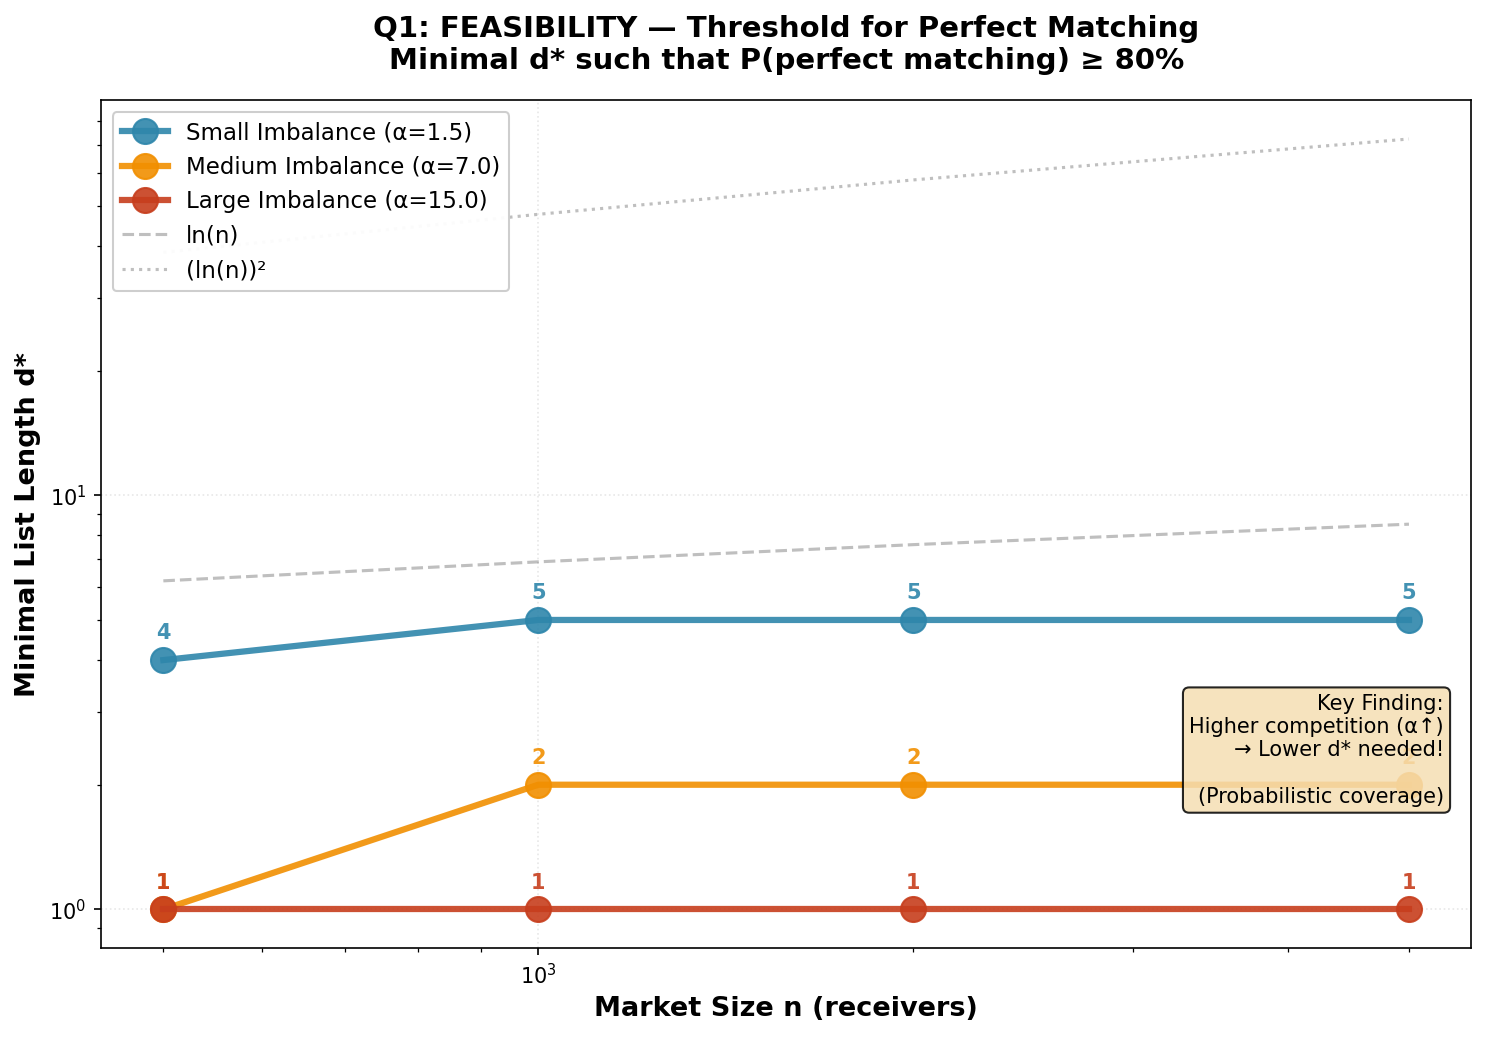
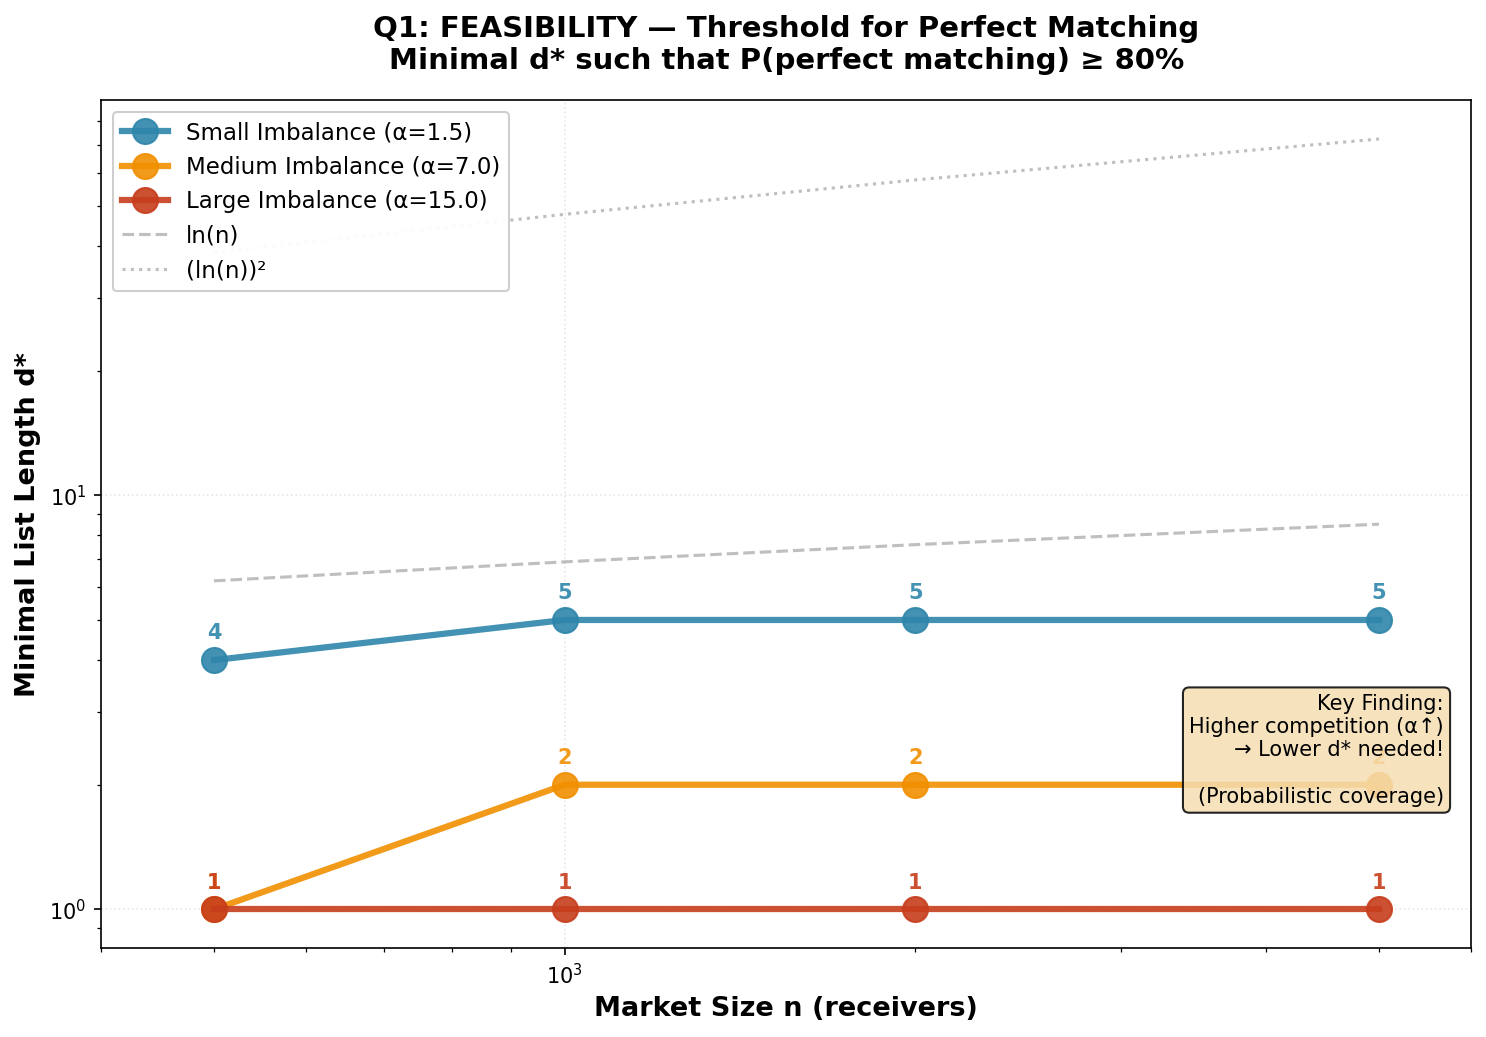
Fix Figure 1 x-axis to show full range up to n=5000
Problem: Figure 1 was cutting off at n=10^3 even though data included n=5000.

Fix: Explicitly set xlim based on data range with 20% padding.

Result: All 4 data points now visible per curve, showing:
- d* is essentially CONSTANT with n (barely grows!)
- Small imbalance (α=1.5): d* = 4→5→5→5
- Medium imbalance (α=7): d* = 2 for all n≥1000
- Large imbalance (α=15): d* = 1 for all n

Key insight: Even with 10x market growth (500→5000), minimal
preference list length stays constant. Probabilistic coverage
dominates scaling effects.

diff --git a/experiments/plot_consolidated.py b/experiments/plot_consolidated.py
@@ -64,6 +64,11 @@ def plot_feasibility(df_threshold):
     plt.xscale('log')
     plt.yscale('log')
     
+    # Ensure x-axis shows full range including n=5000
+    n_min = df_threshold['n'].min()
+    n_max = df_threshold['n'].max()
+    plt.xlim(n_min * 0.8, n_max * 1.2)
+    
     # Add insight box
     textstr = 'Key Finding:\nHigher competition (α↑)\n→ Lower d* needed!\n\n(Probabilistic coverage)'
     props = dict(boxstyle='round', facecolor='wheat', alpha=0.85)
